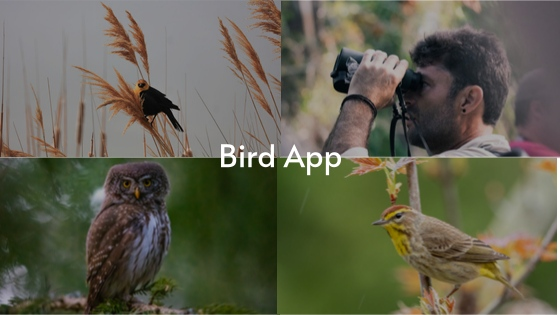
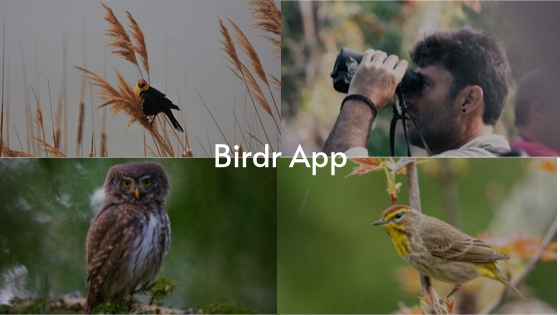
birdr rebrand

Changed region(s): [[0.3643, 0.4571, 0.6375, 0.5714]]

diff --git a/handlebarsGlobals.js b/handlebarsGlobals.js
@@ -74,8 +74,8 @@ globalVars['accordion'] = [
     id: 'faq-2_id',
     data_bs_target: 'faq-2_target',
     heading: 'The map isn\'t working',
-    body: '<p> Bird App needs to be able to access your current location.' +
-          ' If your browser asks you grant BirdApp permission to use your current location be sure to accept this request.' +
+    body: '<p> Birdr needs to be able to access your current location.' +
+          ' If your browser asks you grant Birdr permission to use your current location be sure to accept this request.' +
           ' If the map is still not working check your location settings on your browser or phone.',
   },
   {
